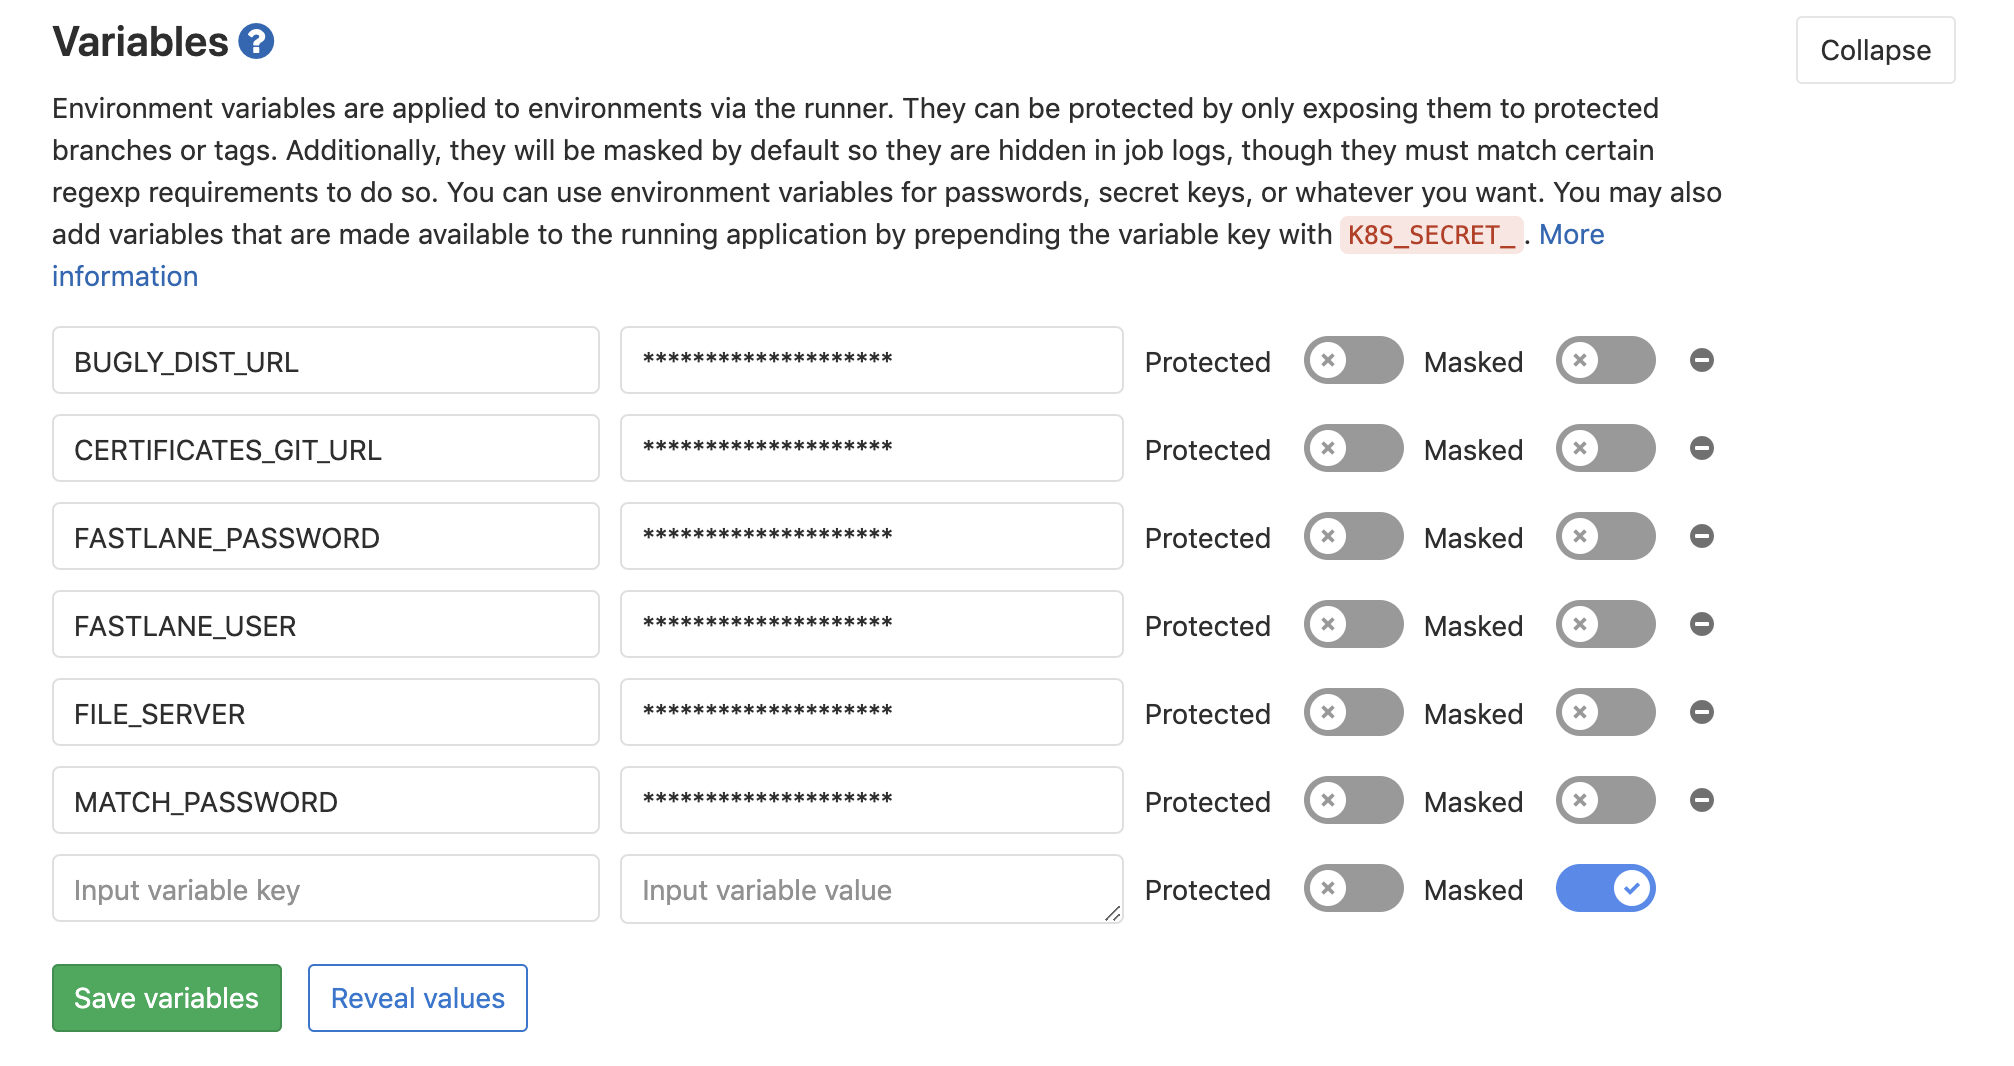
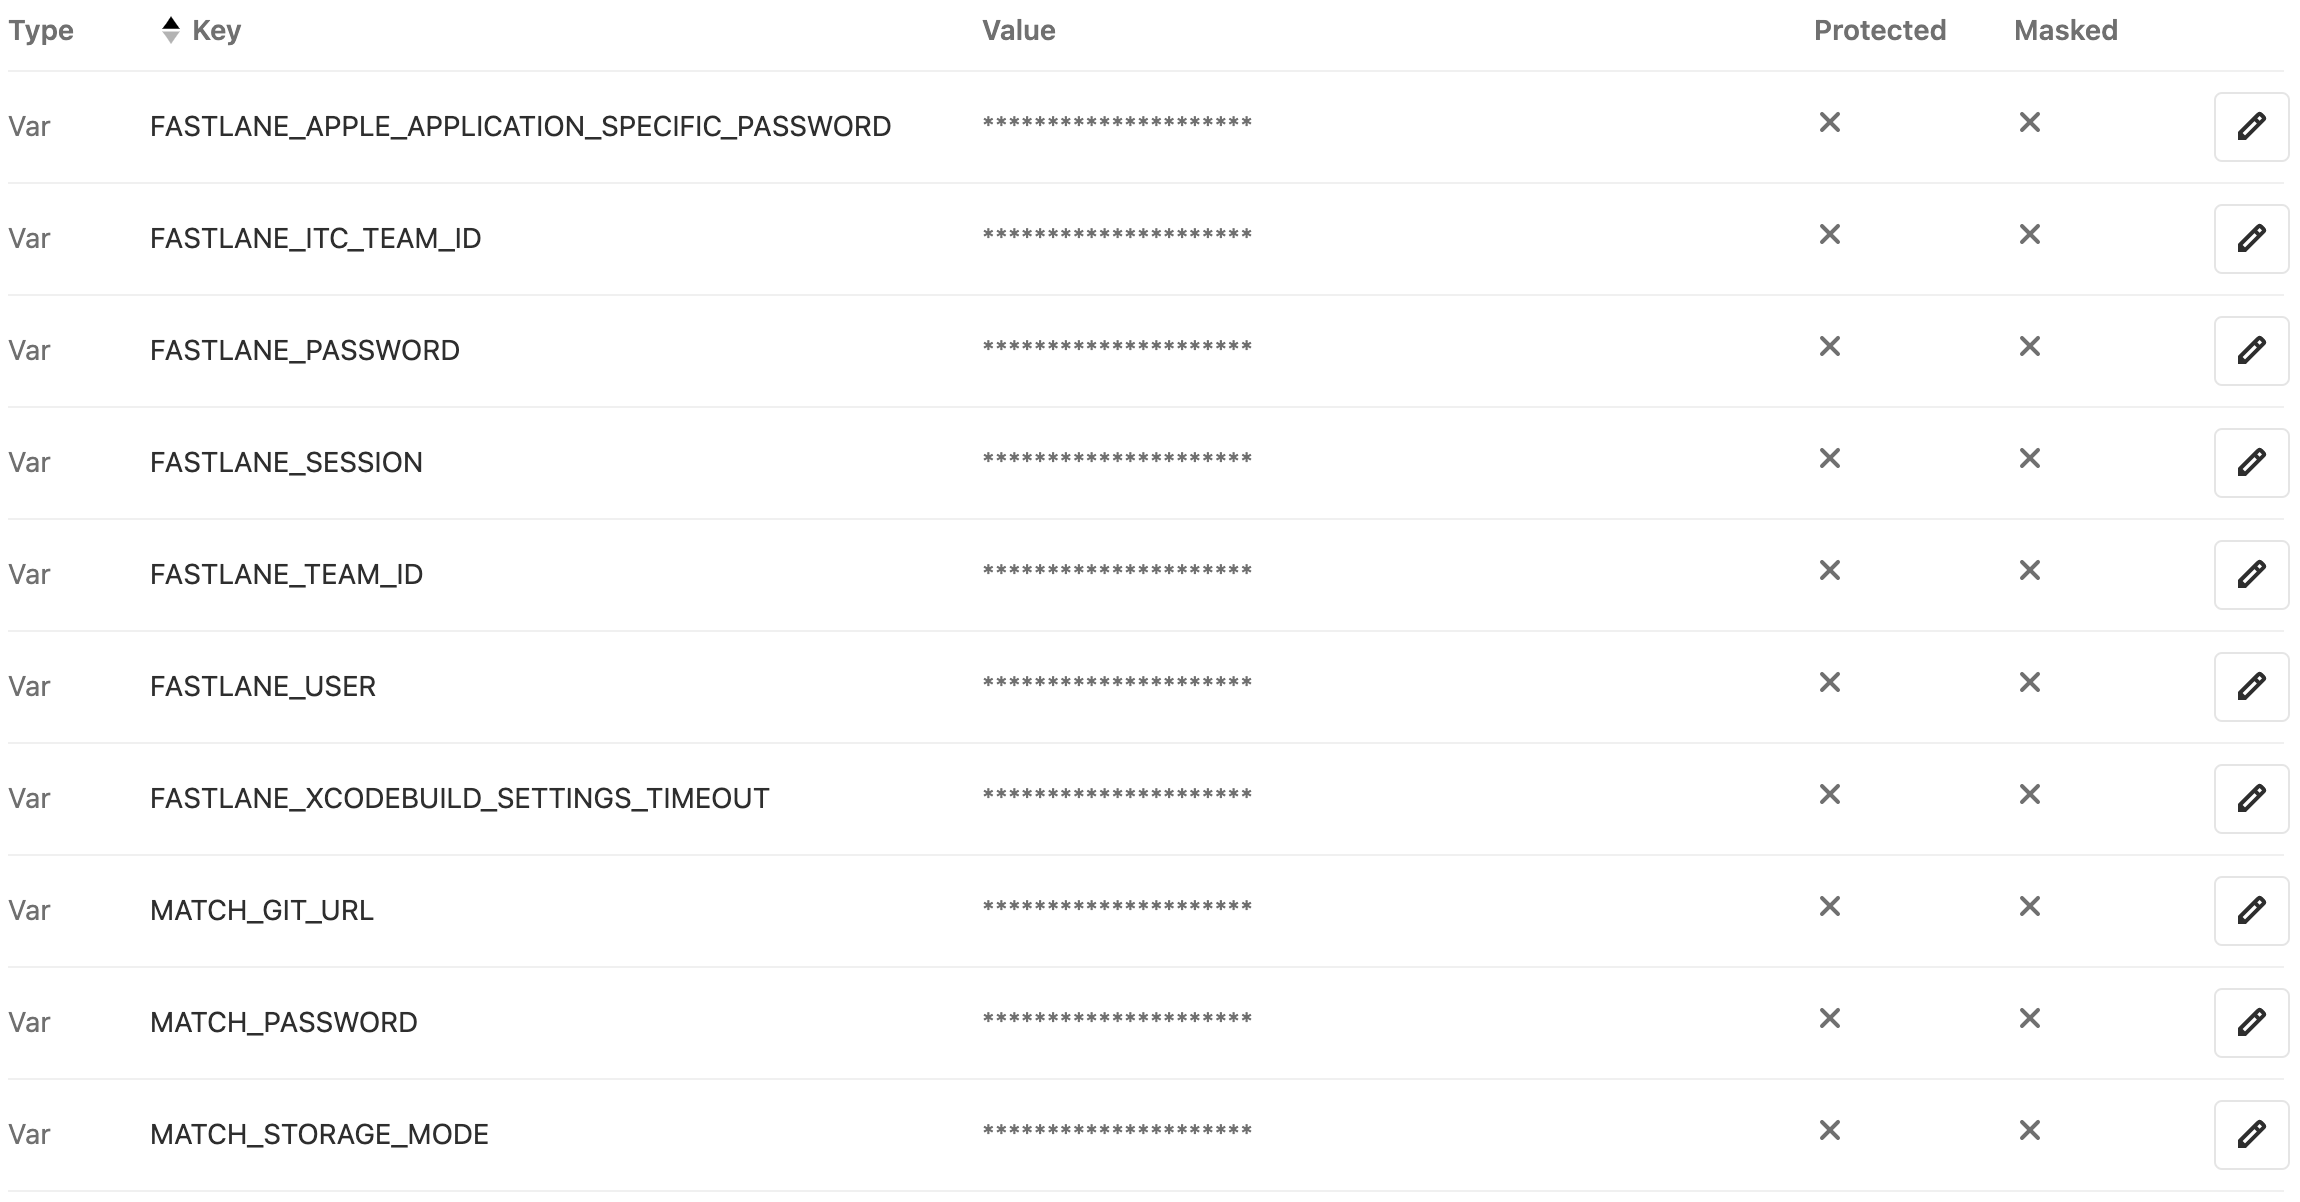
更新文档，支持 Apple ID 二因素身份验证

diff --git a/docs/ci.md b/docs/ci.md
@@ -491,6 +491,28 @@ gitlab-runner start
 
 其中，`FASTLANE_USER` 是 Apple ID，`FASTLANE_PASSWORD` 是 Apple ID 的登录密码，`MATCH_GIT_URL` 是我们通过 match 管理的 ios 开发证书的 git 地址，`MATCH_PASSWORD` 是我们为 match 设置的密码。
 
+`FASTLANE_SESSION` 和 `FASTLANE_APPLE_APPLICATION_SPECIFIC_PASSWORD` 用于解决 Apple ID 二因素登录问题。
+
+#### 获取 FASTLANE_SESSION
+
+运行以下命令，获取 `FASTLANE_SESSION`，记得把 `user@email.com` 替换成你的 Apple ID。
+
+```sh
+fastlane spaceauth -u user@email.com
+```
+
+执行成功后，问你要不要把获得的 session 字符串拷贝到剪贴板，选择 y。
+
+> `FASTLANE_SESSION` 可能有期限，记得更新
+
+#### 获取 FASTLANE_APPLE_APPLICATION_SPECIFIC_PASSWORD
+
+前往 [Apple ID 管理页面](https://appleid.apple.com/)
+
+找到**安全**选卡，点击**App 专用密码**下的**生成密码**按钮，根据指引，即可获得 `FASTLANE_APPLE_APPLICATION_SPECIFIC_PASSWORD`
+
+![](./assets/apple_application_specific_password.png)
+
 ## 自动触发每日构建、部署
 
 根据我们在 .gitlab-ci.yml 文件的配置，当有新的代码 push 或 merge 到仓库，将会自动触发构建流程。

diff --git a/docs/ios.md b/docs/ios.md
@@ -93,8 +93,6 @@ bundle exec fastlane init
 
 ## 用 fastlane 来管理签名
 
-> ⚠ 准备一个**未开启二步验证**的 Apple ID，添加到公司苹果开发账号的用户组，赋予 App 管理权限
-
 fastlane 提供了一些 action 来帮组我们解决代码签名问题，其中最著名的是 [match](https://docs.fastlane.tools/actions/match/)。
 
 打开 Xcode，反勾选 "Automatically manage signing"，我们将使用手动签名的方式：
@@ -257,7 +255,7 @@ lane :build do |options|
         xcodeproj: xcodeproj
     )
 
-    git_url = options[:git_url] || ENV['MATCH_GIT_URL']
+    git_url = options[:git_url]
     username = options[:apple_id] || ENV['FASTLANE_USER']
 
     match(
